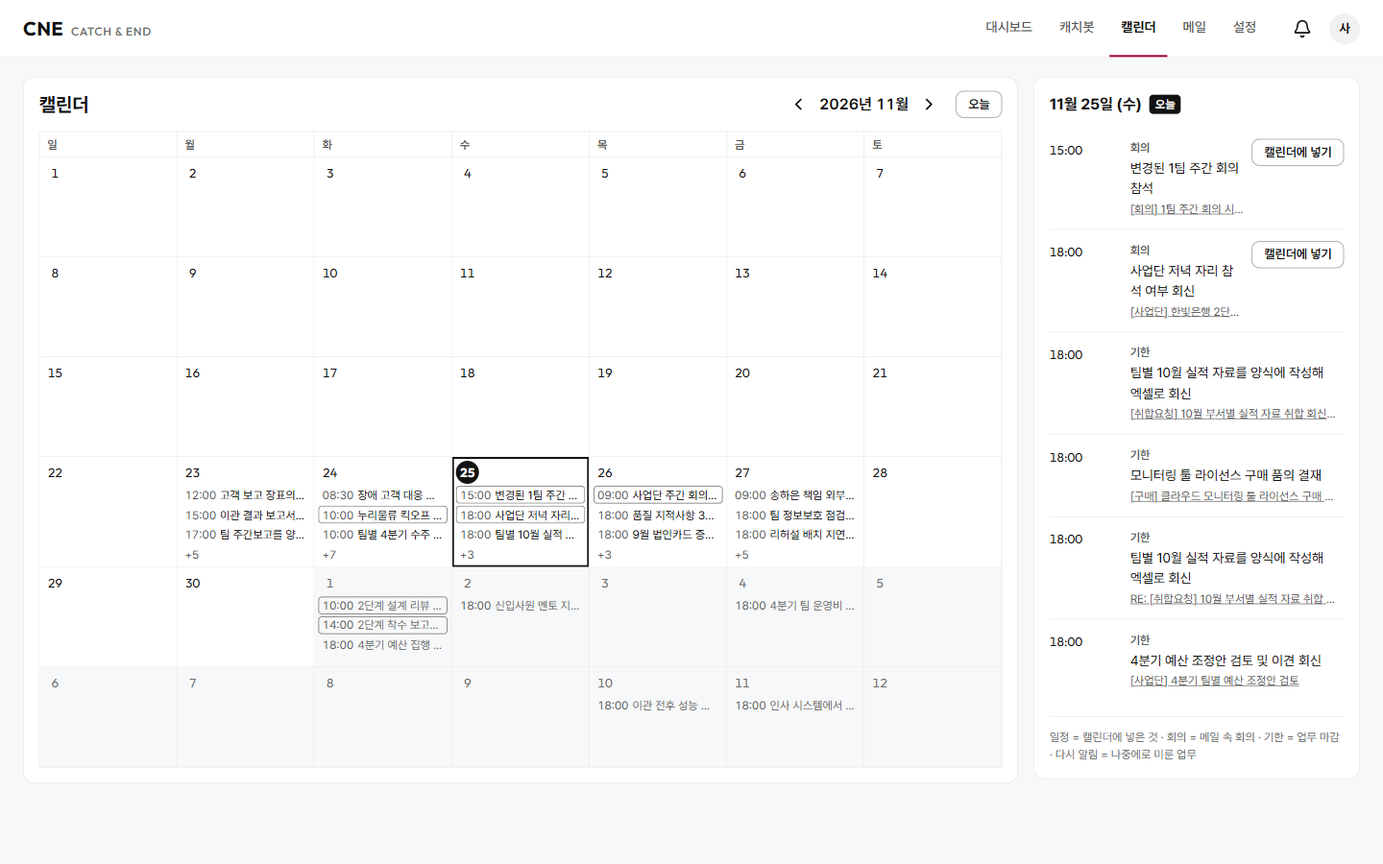
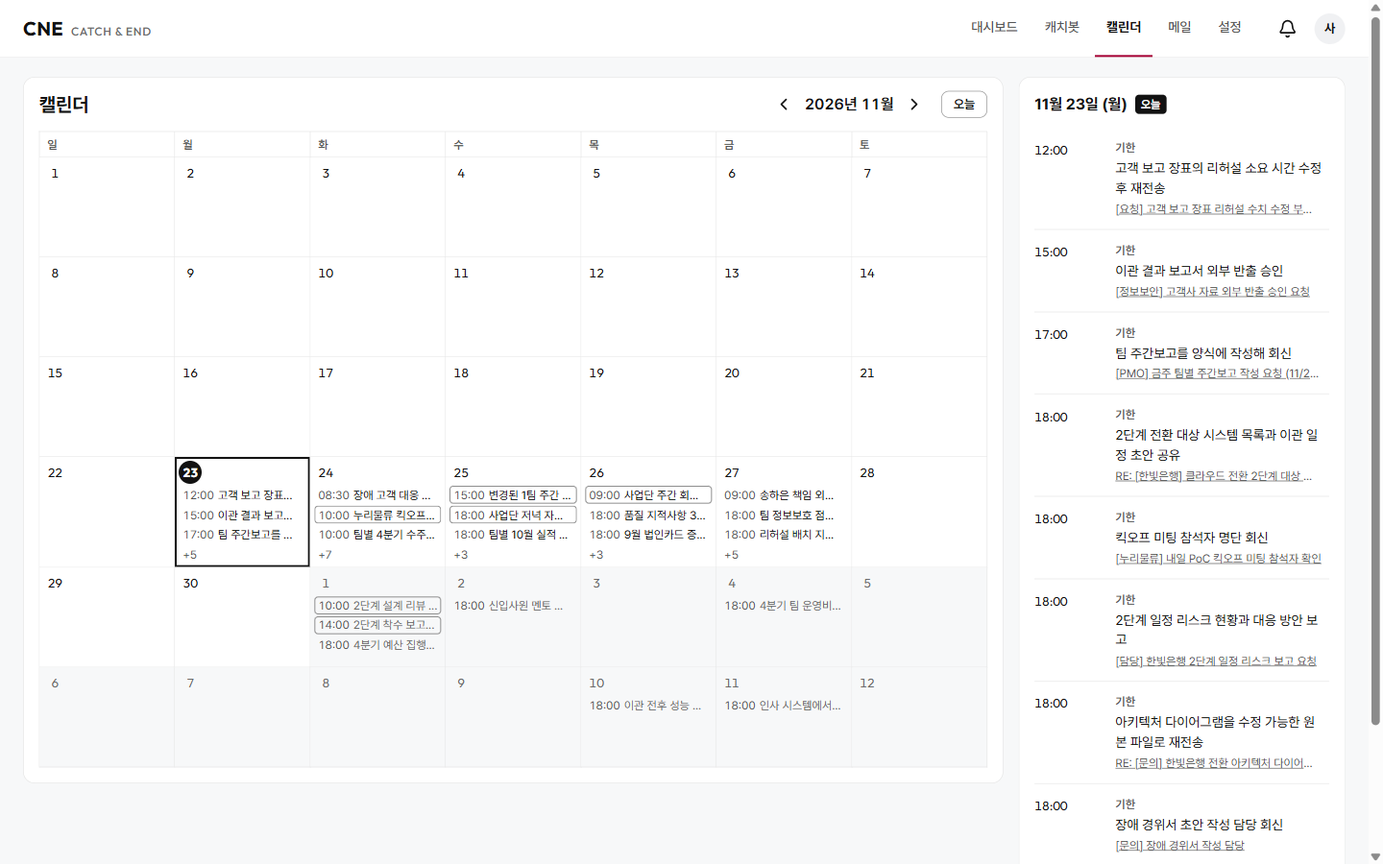
docs: 루트 README 보강 — 사용 흐름 · 동작 방식 · 기술 스택 · 기능 상태 · API, 캡처를 기한 지남 · 오늘 · 이후가 섞이게 다시 찍음

diff --git a/README.md b/README.md
@@ -2,173 +2,246 @@
 
 # CNE
 
-### Catch & End — 메일 속 할 일을 놓치지 않고 끝까지
+**Catch & End — 메일 속 할 일을 잡아서, 끝날 때까지 챙깁니다.**
 
-하루 100~200통의 업무 메일에서 할 일을 뽑아 기한 · 유형별로 정리하고,<br>
-끝낼 때까지 챙겨 주는 업무 메일 비서. 사내 모델 엑사원(EXAONE)만 쓴다.
+하루 100~200통의 업무 메일에서 할 일과 기한을 자동으로 뽑아 대시보드에 모으고,<br>
+완료할 때까지 리마인더와 캐치봇(에이전트)이 대신 챙기는 업무 메일 비서입니다.
 
-[문서](docs/README.md) · [구조도](docs/00_common/architecture.md) · [평가 결과](docs/50_data_eval/scores.md) · [배포](infra/railway_setup.md) · [기여 규칙](CONTRIBUTING.md)
+6조 실리콘밸리 발사대 · 2026 천안형 글로벌 인재육성사업 AX 액션러닝 · LG CNS 기업 과제 04
 
-<img src="docs/assets/screenshots/dashboard.png" alt="CNE 대시보드 — 이번 주 받은 업무 60건을 긴급 · 즐겨찾기 · 회신 · 요청 · 검토 · 기타 칸으로 나눠 보여 준다" width="900">
+[**빠른 시작**](#빠른-시작) · [기술 스택](#기술-스택) · [API](#api) · [성능](#얼마나-맞는지-어떻게-확인했나) · [문서](#문서)
 
 </div>
 
-> 6조 실리콘밸리 발사대 · 2026 천안형 글로벌 인재육성사업 AX 액션러닝 · LG CNS 기업 과제 04
-> 화면의 메일 · 사람 · 회사는 모두 가상 LG CNS 조직의 더미 데이터다.
+<p align="center">
+  <img src="docs/assets/screenshots/dashboard.png" width="860" alt="대시보드: 오늘 받은 업무 60건, 응답 대기 2건, 긴급·즐겨찾기·회신·요청·검토·기타 칸과 기한 지남(D+0)·ASAP·오늘 18:00·내일 라벨">
+</p>
 
 ## 왜 만들었나
 
-메일을 하나씩 열어 확인하는 방식으로는 하루 100~200통 속 할 일을 놓친다. CNE는 이 **누락을 막는 것**을 첫 번째 목표로 둔다.
+팀장은 하루 100~200통의 업무 메일을 받습니다. 하나씩 열어 확인하는 방식으로는 회신 요청, 자료 제출 기한, 회의 참석 요청이 메일함 아래로 밀려 놓치게 됩니다.
 
-| 대상 | 성공 기준 |
-|---|---|
-| 하루 업무 메일 100~200통을 받는 LG CNS 팀장 | 할 일 메일 누락 0건 · 리마인더 중복 · 누락 0건 · 서비스 경로에서 엑사원 밖 LLM 호출 0건 |
+CNE는 이 **누락을 막는 것**을 첫 번째 목표로 합니다. 성공 기준은 세 가지입니다.
 
-## 주요 기능
+| 기준 | 목표 |
+| --- | --- |
+| 할 일 메일 누락 | 0건 (더미 · 봉인 테스트셋 기준) |
+| 리마인더 | 중복 · 누락 0건, 보내기 직전에 아직 미처리인지 다시 확인 |
+| 외부 LLM 호출 | 서비스 경로에서 엑사원(LG AI연구원) 밖 모델 호출 0건 |
 
-- **업무 추출** — 메일마다 할 일 · 기한 · 본인 지목 · 우선순위를 뽑고 회신 · 요청 · 검토 · 공지 · 기타로 나눈다. 판단은 엑사원이, 날짜 계산 · 우선순위 보정은 코드가 한다.
-- **대시보드** — 받은 날 기준 업무 수(처리 · 미처리), 응답 대기, 긴급(기한 지남 · ASAP · 오늘 마감) · 즐겨찾기 · 업무 유형별 칸.
-- **메일** — Outlook과 같은 3단 화면, 여러 계정 통합, 메일마다 업무 카드 · 근거 문장 · 요약 · 번역, 상태 버튼(완료 · 나중에 · 제외 · 되돌리기).
-- **리마인더 · 브리핑** — 완료 · 제외할 때까지 추적한다. 기한 임박 · 지남, 응답 대기, 약속, 끝난 것 같은 업무를 알리고 아침 · 퇴근 · 주간 브리핑을 만든다. 같은 알림은 두 번 보내지 않는다.
-- **캐치봇(에이전트)** — 말이나 글로 지시하면 등록된 행동(T01~T20) 안에서 처리한다. 1건 변경은 바로 실행 + 되돌리기, 여러 건 · 설정 · 발송은 먼저 확인한다.
-- **캘린더** — 업무 기한 · 메일 속 회의 · 미룬 업무와 연결한 Outlook 일정을 월 단위로 본다.
-- **Outlook 연결** — Microsoft Graph로 받은편지함 · 보낸편지함 · 일정을 가져온다. 배포 주소에서는 브라우저마다 자기 Outlook을 연결한다(D58).
+## 사용 흐름
 
-<table>
-  <tr>
-    <td width="50%"><img src="docs/assets/screenshots/mail.png" alt="메일 3단 화면 — 왼쪽 메일함 · 분류, 가운데 메일 목록과 기한 라벨, 오른쪽 메일 본문 위 업무 카드"></td>
-    <td width="50%"><img src="docs/assets/screenshots/calendar.png" alt="캘린더 — 월 보기에 업무 기한과 회의가 표시되고 오른쪽에 오늘 일정 목록"></td>
-  </tr>
-  <tr>
-    <td align="center">메일 — 본문 위에 뽑은 업무 · 기한</td>
-    <td align="center">캘린더 — 기한 · 회의 · 미룬 업무</td>
-  </tr>
-</table>
+1. **메일 연결**: 설정 → 메일 계정에서 Outlook을 연결합니다. 받은편지함 · 보낸편지함 · 일정을 Microsoft Graph로 가져옵니다. 배포 주소에서는 브라우저마다 자기 Outlook을 연결합니다(D58).
+2. **업무 추출**: 메일이 들어오면 엑사원이 할 일 · 유형(회신 · 요청 · 검토 · 공지 · 기타) · 기한 · 본인 지목 · 긴급 여부를 판단하고, 기한 날짜 계산과 우선순위는 코드가 정합니다.
+3. **대시보드에서 확인**: 긴급(기한 지남 · ASAP · 오늘 마감) · 즐겨찾기 · 유형별 칸과 응답 대기 목록으로 오늘 할 일을 봅니다.
+4. **처리**: 메일 화면에서 근거 문장 · 요약 · 번역을 보고 답장합니다. 업무는 완료 · 나중에 · 제외로 바꾸고, 모든 변경은 되돌릴 수 있습니다. 답장 뒤에는 완료할지 묻습니다(D48).
+5. **챙기기**: 끝나지 않은 업무는 리마인더(기한 임박 · 지남, 응답 대기, 약속, 끝난 것 같은 업무)와 아침 · 퇴근 · 주간 브리핑으로 다시 알립니다.
+6. **말로 시키기**: 캐치봇에게 "김 팀장님 건 다 처리했어", "견적 건 내일 아침으로 미뤄"처럼 글이나 음성으로 지시합니다. 여러 건 변경 · 설정 · 발송은 먼저 확인을 받습니다.
 
-만들지 않는 것: 자동 발송(사용자가 [보내기]를 누른 메일만 보낸다, D48), 자동 보관, 묻지 않는 자동 완료.
+| 메일 | 캘린더 |
+| --- | --- |
+| <img src="docs/assets/screenshots/mail.png" alt="메일 3단 화면: 메일함·분류, 기한 라벨이 붙은 메일 목록, 본문 위 업무 카드(내일 08:30)"> | <img src="docs/assets/screenshots/calendar.png" alt="캘린더 월 보기: 11/23부터 12/11까지 업무 기한과 회의, 오른쪽에 오늘 일정 목록"> |
+| 메일마다 뽑은 업무와 기한이 본문 위에 붙고, 목록에서도 기한을 바로 봅니다. | 업무 기한 · 메일 속 회의 · 미룬 업무 · Outlook 일정을 날짜순으로 봅니다. |
 
-## 성능
+화면은 저장소의 데모 메일 115통(`data/dummy/demo_mails.json`, 가상 LG CNS 조직)을 이번 주로 옮겨 시드하고, 서비스 시각을 메일이 도착한 날(11/23 17:50)로 맞춰 11-25에 찍었습니다. 엑사원은 연결하지 않아 업무는 정답 라벨로 채웠고, 캐치봇 화면은 넣지 않았습니다.
 
-봉인한 FINAL TEST 200통(할 일 메일 90통 · 할 일 105개), 분류 프롬프트 `classify_v8.4`, 2026-11-23~24 측정.
+## 어떻게 동작하나
+
+```mermaid
+flowchart LR
+  U["브라우저"] --> W["web<br>React · Vite<br>(배포: Caddy)"]
+  W -- "/api" --> B["backend<br>FastAPI · APScheduler"]
+  B --> D[("SQLite")]
+  B -- "OAuth · 동기화" --> G["Microsoft Graph<br>(Outlook)"]
+  B -- "HTTP, 개인정보 가림" --> A["ai<br>FastAPI"]
+  A -- "HTTPS" --> X["엑사원 API<br>K-EXAONE 2.5"]
+  E["eval<br>(서비스 밖)"] -. "파이프라인 직접 import" .-> A
+```
+
+- **판단은 모델이, 계산은 코드가 합니다.** 할 일인지 · 무슨 유형인지 · 기한 표현이 뭔지는 엑사원이 정하고, 날짜 계산 · 우선순위 공식 · 칸 배치는 코드가 합니다. 모델 호출이 실패하면 규칙으로 메우지 않고 실패를 알린 뒤 다시 부릅니다([AI 결정 AI-D19](docs/40_ai/decisions.md)).
+- **호출은 한 방향입니다.** `web → backend → ai`. ai는 DB에 접근하지 않고 backend를 부르지 않습니다(D34). 화면은 ai를 직접 부르지 않습니다.
+- **상태 변경은 모두 기록합니다.** 버튼과 캐치봇이 같은 서비스 함수를 타고, 모든 변경이 `action_log`에 남아 되돌릴 수 있습니다(D37).
+- **캐치봇은 등록된 행동만 합니다.** 행동 20개(T01~T20) 안에서만 실행하고, 확인이 필요한지는 backend 규칙이 정합니다. 자동 발송 · 자동 보관 · 묻지 않는 자동 완료는 하지 않습니다(D48).
+- **외부 LLM은 평가에서만 씁니다.** Claude · OpenRouter 코드와 키는 `eval/`에만 둡니다. 커밋 전 훅과 CI가 서비스 경로를 검사합니다(D26 · D41).
+
+자세한 구조 · 데이터 · 테스트는 [구조도 v3.1](docs/00_common/architecture.md)에 있습니다.
+
+## 얼마나 맞는지 어떻게 확인했나
+
+봉인한 FINAL TEST 200통(할 일 메일 90통 · 할 일 105개), 분류 프롬프트 `classify_v8.4`, 2026-11-23~24 측정입니다.
 
 | 모델 | 할 일 메일 찾음 | 할 일 메일 정밀도 | 모든 칸 정답 | 주 유형 | 마감 맞음 | 1통 처리 시간(중앙) |
-|---|---|---|---|---|---|---|
+| --- | --- | --- | --- | --- | --- | --- |
 | **K-EXAONE 2.5 (서비스 모델)** | **90/90 (놓침 0)** | 93.8% | 169/200 | 94.5% | 94/105 | 25.5초 |
 | Claude Haiku 5.5 (비교용) | 89/90 | 98.9% | 180/200 | 98.5% | 95/105 | 4.8초 |
 | DeepSeek V4.1 Flash (비교용) | 90/90 | 97.8% | 182/200 | 98.0% | 97/105 | 4.1초 |
 
-- 비교 모델은 `eval/`에서만 부른다. 서비스는 엑사원만 쓴다(D41).
-- v8.4는 직전 측정(v8.3)의 약점 묶음을 본 뒤 고친 버전이라, 이 세트가 완전히 처음 보는 세트는 아니다. 전체 표 · 조건 · 한계는 [scores.md 16절](docs/50_data_eval/scores.md).
-
-## 구조
-
-<img src="docs/00_common/img/architecture/01_overview.svg" alt="구조도 — 사용자는 frontend로 들어오고, 호출은 frontend → backend → ai 한 방향이며 ai만 엑사원을 부른다. eval은 서비스 밖에서 ai 파이프라인을 직접 불러 쓴다" width="900">
-
-| 서비스 | 하는 일 | 기술 | 로컬 주소 |
-|---|---|---|---|
-| [frontend](frontend/README.md) | 대시보드 · 메일 · 캐치봇 · 캘린더 · 설정 화면, 음성 입력 | React 19 · Vite 8 · TypeScript · TanStack Query | `http://localhost:5173` |
-| [backend](backend/README.md) | API · 메일 연동 · 업무 상태 · 행동 실행기 · 리마인더 · 분류 작업자 | Python 3.12 · FastAPI · SQLite · APScheduler | `http://localhost:8000` |
-| [ai](ai/README.md) | 분류 · 근거 · 명령 해석 · 요약 · 초안 · 번역 · 신호. DB 없이 받은 입력만 처리 | Python 3.12 · FastAPI · 엑사원 API(`k-exaone_v2.5`) | `http://localhost:8001` |
-| [eval](eval/README.md) | 채점 · 모델 비교. 서비스에 포함하지 않는다 | Python · Claude · OpenRouter(여기서만) | — |
-| [infra](infra/README.md) | 배포 설정 · 저장소 규칙 | Railway · Caddy · Docker | — |
-
-- 호출은 `frontend → backend → ai` 한 방향(HTTP)이다. ai는 DB에 접근하지 않고 backend를 부르지 않는다(D34). 의존 방향은 `eval → ai`.
-- 자세한 API · 데이터 · 테스트는 [구조도 v3.1](docs/00_common/architecture.md).
+- v8.4는 직전 측정(v8.3)의 약점 묶음을 본 뒤 고친 버전이라, 이 세트가 완전히 처음 보는 세트는 아닙니다. 평가 메일 작성과 재라벨을 모두 Claude가 해서 Haiku 수치는 이 점을 감안해 읽어야 합니다. 전체 표와 한계는 [scores.md 16절](docs/50_data_eval/scores.md)에 있습니다.
+- 코드 검증: PR마다 CI가 경계 · 비밀값 검사, ai · backend pytest, frontend 빌드 · 테스트를 돌립니다.
 
 ## 빠른 시작
 
-준비물: Python 3.12(루트 `.python-version`) · [uv](https://docs.astral.sh/uv/) · Node.js 22.22 이상(`frontend/package.json` engines)
+필요한 것: Python 3.12, [uv](https://docs.astral.sh/uv/), Node.js 22.22 이상. 엑사원을 쓰려면 엑사원 API 키가 필요합니다.
 
 ```bash
 git clone https://github.com/dlwodns/Teamproject_6.git
 cd Teamproject_6
-cp .env.example .env                    # 값은 각자 채운다. .env는 올리지 않는다
-git config core.hooksPath .githooks     # 커밋 전 경계 · 비밀값 검사(클론마다 한 번)
+cp .env.example .env                    # 값을 채웁니다. .env는 커밋하지 않습니다
+git config core.hooksPath .githooks     # 커밋 전 경계 · 비밀값 검사 (클론마다 한 번)
 
-python scripts/run_dev.py --no-llm      # ai · backend · frontend를 한 번에 띄운다. Ctrl+C로 한 번에 끈다
+python scripts/run_dev.py --no-llm      # ai · backend · frontend를 한 번에 띄웁니다. Ctrl+C로 한 번에 끕니다
 ```
 
-- `--no-llm`은 엑사원 없이 띄운다. 분류 · 명령 해석은 503으로 실패를 알리고 화면 · 메일 · 상태 변경은 그대로 된다.
-- 화면은 기본이 모의 데이터(`VITE_API_MODE=mock`)다. backend에 붙이려면 `frontend/.env`에 `VITE_API_MODE=http`([frontend/README.md](frontend/README.md#설정)).
-- 엑사원을 쓰려면 `.env`에 `EXAONE_API_KEY`를 넣고 `--no-llm`을 뺀다. 로컬 ollama · PC 터널은 [ai/README.md](ai/README.md#실행).
-- 더미 메일이 채워진 시연 화면은 [backend/README.md](backend/README.md#시연-데이터)의 시드 명령으로 만든다.
-- `run_dev.py` 옵션: `--only ai,backend` · `--port` · `--host` · `--reload`. 포트가 이미 쓰이면 빈 포트를 골라 서로 이어 준다.
+- `--no-llm`은 엑사원 없이 띄웁니다. 화면 · 메일 · 상태 변경은 되고 분류 · 캐치봇 명령은 실패를 알립니다. 엑사원을 쓰려면 `.env`에 `EXAONE_API_KEY`를 넣고 `--no-llm`을 뺍니다.
+- 화면은 기본이 모의 데이터(`VITE_API_MODE=mock`)입니다. backend에 붙이려면 `frontend/.env`에 `VITE_API_MODE=http`를 넣습니다([frontend README](frontend/README.md#설정)).
+- 더미 메일이 채워진 시연 화면은 [backend README의 시연 데이터](backend/README.md#시연-데이터)로 만듭니다.
+- 각 서비스를 따로 띄우거나 테스트하는 방법은 서비스별 README에 있습니다.
 
-## 배포
+### 환경 변수
 
-Railway에 서비스 3개(`web` · `backend` · `ai`)로 올린다. 공개 주소는 `web`(Caddy: 화면 + `/api` 프록시) 하나이고, `backend` · `ai`는 내부망으로만 닿는다. 운영은 `APP_MODE=prod` · `AUTH_MODE=session` · `MAIL_SOURCE=outlook_graph`.
-서비스 변수 · 순서 · 확인 방법은 [infra/railway_setup.md](infra/railway_setup.md), 선정 근거는 [infra/deploy_decision.md](infra/deploy_decision.md). 배포 주소는 팀에만 공유한다.
+루트 `.env` 하나를 `run_dev.py`가 세 서비스에 넘깁니다. 코드가 읽는 변수는 모두 `.env.example`에 있어야 하고, 빠지면 CI가 막습니다(INF-4). 필수는 비어 있으면 서비스가 뜨지 않거나 그 기능이 동작하지 않는 값입니다.
 
-## 환경 변수
+| 이름 | 쓰는 곳 | 필수 | 기본값 · 뜻 |
+| --- | --- | --- | --- |
+| `EXAONE_API_KEY` | ai | 엑사원을 쓰면 예 | 엑사원 API 키. 쉼표로 여러 개(한도 소진 · 거절 시 다음 키) |
+| `LLM_BACKEND` | ai | 아니요 | `exaone_api` |
+| `LLM_ENABLED` | ai | 아니요 | `true`. `false`면 모델을 부르지 않음 |
+| `AI_SERVICE_URL` | backend | 아니요 | `http://localhost:8001` |
+| `DATABASE_URL` | backend | 아니요 | `sqlite:///./ax.db` |
+| `APP_MODE` | backend | 아니요 | `dev`. 배포는 `prod` |
+| `AUTH_MODE` | backend | 아니요 | `header`(개발 · 테스트, `X-User-Id`). 배포는 `session`(브라우저 쿠키) |
+| `MAIL_SOURCE` | backend | 아니요 | `dummy`. Outlook은 `outlook_graph` |
+| `MS_GRAPH_CLIENT_ID`, `_CLIENT_SECRET`, `_REDIRECT_URI` | backend | `outlook_graph`면 예 | Microsoft Entra 앱 정보 |
+| `MS_GRAPH_TENANT` | backend | 아니요 | `consumers`. 회사 · 학교 계정도 받으려면 `common` |
+| `TOKEN_ENCRYPTION_KEY` | backend | `outlook_graph`면 예 | 메일 토큰 암호화 Fernet 키 |
+| `CLASSIFY_WORKER`, `REMINDER_SCHEDULER`, `REMINDER_SIGNALS`, `MEMORY_EXTRACT` | backend | 아니요 | 꺼짐. `1`이면 분류 작업자 · 리마인더 1분 틱 · 신호 · 문맥 기억을 켬 |
+| `VITE_API_MODE` | frontend | 아니요 | `mock`. backend에 붙이려면 `http` |
+| `ANTHROPIC_API_KEY`, `OPENROUTER_API_KEY` | eval만 | 아니요 | 모델 비교용. `run_dev.py`는 서비스에 넘기지 않음 |
 
-`.env.example`을 복사해 `.env`로 쓴다. 키 · 토큰은 코드와 문서에 넣지 않는다. 코드가 읽는 변수는 모두 `.env.example`에 있어야 하고, 빠지면 CI가 막는다(INF-4).
+서비스별 전체 목록은 [backend](backend/README.md#설정) · [ai](ai/README.md#설정) · [frontend](frontend/README.md#설정) README에 있습니다.
 
-| 묶음 | 변수 | 읽는 곳 |
-|---|---|---|
-| 엑사원 | `LLM_BACKEND`(기본 `exaone_api`) · `EXAONE_API_KEY`(쉼표로 여러 개) · `LLM_ENABLED` | ai |
-| 로컬 엑사원 (선택) | `OLLAMA_BASE_URL` · `OLLAMA_UDS` · `EXAONE_MODEL` · `EXAONE_MODEL_DIGEST` · `OLLAMA_VERSION` | ai · eval |
-| 서비스 연결 | `AI_SERVICE_URL` · `DATABASE_URL` · `APP_URL` | backend |
-| 모드 | `APP_MODE`(`dev` \| `prod`) · `AUTH_MODE`(`header` \| `session`) · `DEMO_TOOLS` | backend |
-| 메일 | `MAIL_SOURCE`(`dummy` \| `outlook_graph`) · `MS_GRAPH_CLIENT_ID` · `MS_GRAPH_CLIENT_SECRET` · `MS_GRAPH_REDIRECT_URI` · `MS_GRAPH_TENANT` · `TOKEN_ENCRYPTION_KEY` | backend |
-| 백그라운드 작업 | `CLASSIFY_WORKER` · `REMINDER_SCHEDULER` · `REMINDER_SIGNALS` · `MEMORY_EXTRACT` | backend |
-| 평가 전용 | `ANTHROPIC_API_KEY` · `OPENROUTER_API_KEY` | eval만 (`run_dev.py`는 서비스에 넘기지 않는다) |
+## 기능과 진행 상태
 
-서비스별 전체 목록 · 기본값은 각 서비스 README.
+2026-11-25 `main` 코드 기준입니다.
 
-## 폴더
+| 기능 | 우선순위 | 서버 | 화면 |
+| --- | --- | --- | --- |
+| 업무 추출 (할 일 · 유형 · 기한 · 지목 · 근거 문장) | P0 | 완료 | 완료 |
+| 대시보드 (업무 수 · 응답 대기 · 긴급 · 유형별 칸) | P0 | 완료 | 완료 |
+| 메일 (3단 화면 · 여러 계정 · 답장 · 전달 · 예약 발송 · 상태 버튼) | P0 | 완료 | 완료 |
+| 처리 추적 · 되돌리기 (`action_log`) | P0 | 완료 | 완료 |
+| 리마인더 · 알림 센터 · 아침 / 퇴근 / 주간 브리핑 | P0 | 완료 | 완료 |
+| 캐치봇 (행동 T01~T20, 미리보기 → 확인) | P0 · P1 | 완료 | 완료 |
+| 음성 입력 | P0 | 해당 없음 | 완료 (브라우저 Web Speech API) |
+| 요약 · 번역 · 회신 초안 · 답장 다듬기 | P0 | 완료 | 완료 |
+| Outlook 연결 (Graph, 브라우저별 세션) | P0 | 완료 | 완료 |
+| 캘린더 (기한 · 회의 · 미룬 업무 · Outlook 일정 읽기) | P1 | 완료 | 완료 |
+| 템플릿 전송 (T14, 미리보기 + 확인) | P1 · P2 | 완료 | 완료 |
+| 웹 푸시 알림 | P1 | 진행 전 (구독 표만 있음) | 진행 전 |
+| MCP 서버 (같은 행동을 MCP 도구로) | P2 | 진행 전 | 해당 없음 |
 
-```
-.
-├── frontend/   웹 화면 (React + Vite)                       → 서비스
-├── backend/    API · 메일 연동 · 리마인더 · 행동 실행기 (FastAPI) → 서비스
-├── ai/         엑사원 서비스 (FastAPI)                       → 서비스
-├── eval/       채점 · 모델 비교. Claude · OpenRouter는 여기서만
-├── data/       더미 메일 생성기 · 생성 데이터 (원본 raw는 레포 미포함)
-├── docs/       공통 규칙 · 결정 · 구조도 + 파트별 계획 · 명세 · 트러블슈팅
-├── scripts/    동시 실행 · 경계 · 비밀값 검사 · PC 엑사원 터널
-└── infra/      배포 설정 · 저장소 규칙
-```
+일정: 11/27(금) 발표자료 + 코드 제출(**코드 수정 마감**) · 11/28(토) IR Day.
+
+## 기술 스택
+
+![React](https://img.shields.io/badge/React_19-20232A?logo=react&logoColor=61DAFB)
+![TypeScript](https://img.shields.io/badge/TypeScript_6-3178C6?logo=typescript&logoColor=white)
+![Vite](https://img.shields.io/badge/Vite_8-646CFF?logo=vite&logoColor=white)
+![TanStack Query](https://img.shields.io/badge/TanStack_Query_5-FF4154?logo=reactquery&logoColor=white)
+![Python](https://img.shields.io/badge/Python_3.12-3776AB?logo=python&logoColor=white)
+![FastAPI](https://img.shields.io/badge/FastAPI-009688?logo=fastapi&logoColor=white)
+![SQLite](https://img.shields.io/badge/SQLite-003B57?logo=sqlite&logoColor=white)
+![SQLAlchemy](https://img.shields.io/badge/SQLAlchemy_2-D71F00?logo=sqlalchemy&logoColor=white)
+![Microsoft Graph](https://img.shields.io/badge/Microsoft_Graph-0078D4?logo=microsoftoutlook&logoColor=white)
+![EXAONE](https://img.shields.io/badge/K--EXAONE_2.5-A50034)
+![Railway](https://img.shields.io/badge/Railway-0B0D0E?logo=railway&logoColor=white)
+![Caddy](https://img.shields.io/badge/Caddy_2-1F88C0?logo=caddy&logoColor=white)
+![GitHub Actions](https://img.shields.io/badge/GitHub_Actions-2088FF?logo=githubactions&logoColor=white)
+
+| 영역 | 기술 | 쓰는 곳 |
+| --- | --- | --- |
+| 웹 | React 19.3, TypeScript 6.0, Vite 8.3, React Router 8 (해시 라우터), TanStack Query 5, Base UI, lucide-react | 화면 · 상태 · 서버 데이터 캐시 |
+| 웹 디자인 | CSS Modules + 디자인 토큰(`tokens.css`), Pretendard · Outfit 글꼴 | LG Heritage Red 포인트 색, 대비 테스트 |
+| 웹 테스트 | Node 내장 `node --test` (TS 타입 제거) | 집계 · 기한 · 응답 변환 · 색 대비 |
+| 백엔드 | Python 3.12, FastAPI 0.162, Uvicorn, Pydantic 2, SQLAlchemy 2.1, APScheduler 3.11, httpx, cryptography(Fernet) | API · 업무 상태 · 리마인더 1분 틱 · 토큰 암호화 |
+| DB | SQLite (파일 하나, 배포는 Railway 볼륨) | 메일 · 업무 · 리마인더 · `action_log` |
+| 메일 연동 | Microsoft Graph v1.0, OAuth 2.0 인증 코드 + PKCE, 변경 알림 구독 | Outlook 메일 · 일정 |
+| AI 서비스 | Python 3.12, FastAPI, httpx | 분류 · 근거 · 명령 해석 · 요약 · 초안 · 번역 · 신호 |
+| 모델 | 엑사원 API `k-exaone_v2.5` (LG AI연구원) | 서비스의 유일한 LLM |
+| 평가 | Python 표준 라이브러리 채점기, Claude · OpenRouter(비교 · 보조 채점) | `eval/`에서만 |
+| 패키지 | uv + `uv.lock`(Python), npm + `package-lock.json` | 잠근 버전 그대로 설치 |
+| 배포 | Railway 서비스 3개, Docker(uv python3.12 · node 22), Caddy 2.10 | HTTPS · `/api` 프록시 |
+| CI · 품질 | GitHub Actions, ruff, pytest, 커밋 전 훅(`check_boundaries.py`) | 경계 · 비밀값 · 테스트 · 빌드 |
+
+## API
+
+브라우저는 `/api`로 backend만 부르고, backend가 내부 ai를 부릅니다. 형식은 [구조도 8절](docs/00_common/architecture.md)과 각 서비스의 `app/schemas/`가 기준입니다.
+
+| 영역 | 대표 경로 | 문서 |
+| --- | --- | --- |
+| 대시보드 · 응답 대기 | `/api/dashboard`, `/api/awaiting` | [backend API](backend/README.md#api) |
+| 메일 · 답장 · 요약 · 번역 | `/api/mails/*`, `/api/uploads` | [backend API](backend/README.md#api) |
+| 업무 상태 · 되돌리기 | `/api/tasks/*`, `/api/actions/*` | [backend API](backend/README.md#api) |
+| 캐치봇 | `/api/agent/command`, `/api/suggestions`, `/api/agent/memory` | [AI 명세](docs/40_ai/detail.md) |
+| 리마인더 · 알림 · 브리핑 | `/api/reminders/*`, `/api/notifications/*`, `/api/briefings/*` | [리마인더 API](backend/README.md#리마인더), [명세](docs/10_planning/reminders.md) |
+| 캘린더 | `/api/calendar`, `/api/events` | [backend API](backend/README.md#api) |
+| 계정 · 세션 · 설정 | `/api/accounts/*`, `/api/session`, `/api/settings` | [backend API](backend/README.md#api) |
+| ai 내부 (backend 전용) | `/classify`, `/evidence`, `/agent/plan`, `/summarize`, `/draft`, `/polish`, `/translate`, `/memory/extract`, `/signals` | [ai API](ai/README.md#api) |
 
 ## 문서
 
-| 문서 | 내용 |
-|---|---|
-| [PRD](docs/10_planning/refs/PRD.md) | 한 단락 PRD (v3.1) |
-| [구조도](docs/00_common/architecture.md) | 구조 · API · 데이터 · 테스트 (v3.1) |
-| [기획 명세](docs/10_planning/detail.md) · [AI 명세](docs/40_ai/detail.md) · [리마인더 명세](docs/10_planning/reminders.md) | 상세 명세 |
-| [공통 결정](docs/00_common/decisions.md) | D1~D58 |
-| [문서 지도](docs/README.md) · [작업 규칙](docs/00_common/work_rules.md) · [기여 규칙](CONTRIBUTING.md) | 어디에 무엇이 있는지 · 브랜치 · 커밋 · 리뷰 |
+| 알고 싶은 것 | 문서 |
+| --- | --- |
+| 무엇을 만드나 | [PRD v3.1](docs/10_planning/refs/PRD.md), [기획 명세](docs/10_planning/detail.md) |
+| 전체 구조 · 데이터 · 테스트 | [구조도 v3.1](docs/00_common/architecture.md) |
+| 왜 이렇게 정했나 | [공통 결정 D1~D58](docs/00_common/decisions.md), 파트별 `docs/<파트>/decisions.md` |
+| 화면 | [frontend README](frontend/README.md), [디자인 시스템](docs/20_frontend/design_system.md), [와이어프레임](docs/20_frontend/wireframe.md) |
+| API · 리마인더 · 캐치봇 실행 | [backend README](backend/README.md), [BE 명세](docs/30_backend/detail.md), [리마인더 명세](docs/10_planning/reminders.md) |
+| 분류 · 명령 해석 | [ai README](ai/README.md), [AI 명세](docs/40_ai/detail.md) |
+| 평가 방법 · 점수 | [eval README](eval/README.md), [점수 기록](docs/50_data_eval/scores.md) |
+| 더미 데이터 | [data README](data/README.md), [더미 메일](data/dummy/README.md) |
+| 배포 | [infra README](infra/README.md), [Railway 설정](infra/railway_setup.md) |
+| 작업 규칙 | [CONTRIBUTING](CONTRIBUTING.md), [작업 규칙](docs/00_common/work_rules.md), [문서 지도](docs/README.md) |
 
-## 지키는 규칙
+<details>
+<summary>폴더 안내</summary>
 
-- 서비스 경로(`frontend` · `backend` · `ai`)에는 엑사원 밖 LLM 호출 코드와 키를 두지 않는다. Claude · OpenRouter는 `eval/`에서만 쓴다(D26 · D41). 커밋 전 훅과 CI의 `scripts/check_boundaries.py`가 막는다.
-- 에이전트는 등록된 행동만 실행하고, 확인 여부는 backend 규칙이 정한다. 모든 상태 변경은 `action_log`에 남는다(D37).
-- 답장 뒤에는 완료 여부를 묻고, 사용자가 고른 경우에만 완료한다(D48).
-- 메일 본문 · 토큰을 로그에 남기지 않고, 메일 토큰은 암호화해 저장한다.
+| 경로 | 용도 | 서비스에 포함 |
+| --- | --- | --- |
+| `frontend/` | 웹 화면 (React + Vite), 배포용 Caddy 설정 | O |
+| `backend/` | API · 메일 연동 · 업무 상태 · 캐치봇 실행기 · 리마인더 (FastAPI) | O |
+| `ai/` | 엑사원 서비스 (FastAPI) | O |
+| `eval/` | 채점 · 모델 비교. Claude · OpenRouter는 여기서만 | X |
+| `data/` | 더미 메일 생성기 · 생성 데이터 (원본 raw는 레포 미포함) | X |
+| `docs/` | 공통 규칙 · 결정 · 구조도, 파트별 계획 · 명세 · 트러블슈팅 | X |
+| `scripts/` | 동시 실행(`run_dev.py`) · 경계 · 비밀값 검사 | X |
+| `infra/` | 배포 문서 · 저장소 규칙 | X |
 
-## 일정
+</details>
 
-| 날짜 | 마일스톤 |
-|---|---|
-| 11/27 (금) | 발표자료 + 코드 제출 — **코드 수정 마감**. 제출물: 레포 · 배포 URL · 발표자료 |
-| 11/28 (토) | IR Day — 조별 발표 10분 이내 |
+## 협업 규칙
+
+- 브랜치: `feature/` · `fix/` · `docs/` + 작업 번호 (예: `feature/FE-3-dashboard`). 여러 파트가 함께 보는 문서는 main 기준으로 고칩니다.
+- 커밋: `유형: 작업 번호 요약` (예: `feat: FE-3 업무 칸 렌더링`). 작성자 한 명, 공동 저자 줄 없음.
+- PR: 작성자 외 1명 리뷰 승인과 CI 통과 뒤 병합합니다. main에 직접 push하지 않습니다.
+- 결정은 `decisions.md`에 상태 · 제안 · 결정 · 리뷰 · 근거와 함께 남깁니다. 자세한 규칙은 [CONTRIBUTING](CONTRIBUTING.md).
 
 ## 팀
 
-| 이름 | 역할 | 파트 |
-|---|---|---|
-| 이재운 | 팀장 | 기획(팀장) · 프론트엔드 |
-| 강예은 | 데이터 | AI · 데이터 · 평가 |
-| 문규남 | 테크 · 커뮤니케이터 | 기획 · AI(팀장) · 인프라 |
-| 임동하 | 테크팀장 | 프론트엔드 · 백엔드 |
-| 최수호 | 테크 · 커뮤니케이터 | 백엔드 · 데이터 · 평가 |
-| 홍태겸 | 테크 | 백엔드 · AI |
+| 이름 | GitHub | 역할 | 파트 |
+| --- | --- | --- | --- |
+| 이재운 | [dlwodns](https://github.com/dlwodns) | 팀장 | 기획(팀장) · 프론트엔드 |
+| 강예은 | [kangdms6603-hub](https://github.com/kangdms6603-hub) | 데이터 | AI · 데이터 · 평가 |
+| 문규남 | [mungn0603-code](https://github.com/mungn0603-code) | 테크 · 커뮤니케이터 | 기획 · AI(팀장) · 인프라 |
+| 임동하 | [Limdongha-7751](https://github.com/Limdongha-7751) | 테크팀장 | 프론트엔드 · 백엔드 |
+| 최수호 | [sooho2638](https://github.com/sooho2638) | 테크 · 커뮤니케이터 | 백엔드 · 데이터 · 평가 |
+| 홍태겸 | [Taegyeom03](https://github.com/Taegyeom03) | 테크 | 백엔드 · AI |
 
-기여도는 [contribution.md](docs/00_common/contribution.md).
+기여도는 [contribution.md](docs/00_common/contribution.md)에 있습니다.
 
 ## 데이터 · 라이선스
 
-- 개발 · 평가는 가상 LG CNS 조직의 더미 메일([data/dummy](data/dummy/README.md))로 한다. 실제 사내 메일 · 개인 메일은 어떤 폴더에도 넣지 않는다.
-- 공개 데이터셋 MailEx(Enron 기반, 실명 포함)는 원재료로만 쓰고 레포에 올리지 않는다(D24). 라이선스 `[미확인]`.
-- EXAONE 모델 · API는 LG AI연구원 약관을 따른다. 상업적 사용 조건 `[미확인]`.
-- 글꼴 · 아이콘 고지는 [frontend/public/licenses](frontend/public/licenses). 이 레포는 비공개이며 레포 자체의 라이선스는 정하지 않았다.
+- 개발 · 평가는 가상 LG CNS 조직의 더미 메일로 합니다. 실제 사내 메일 · 개인 메일은 어떤 폴더에도 넣지 않습니다. 화면의 이름 · 회사 · 메일 주소는 모두 예시입니다.
+- 공개 데이터셋 MailEx(Enron 기반, 실명 포함)는 원재료로만 쓰고 레포에 올리지 않습니다(D24). 라이선스 `[미확인]`.
+- 엑사원 API는 LG AI연구원 약관을 따릅니다. 상업적 사용 조건 `[미확인]`.
+- 글꼴 · 아이콘 고지는 [frontend/public/licenses](frontend/public/licenses). 이 레포는 비공개이며 레포 자체의 라이선스는 정하지 않았습니다.
